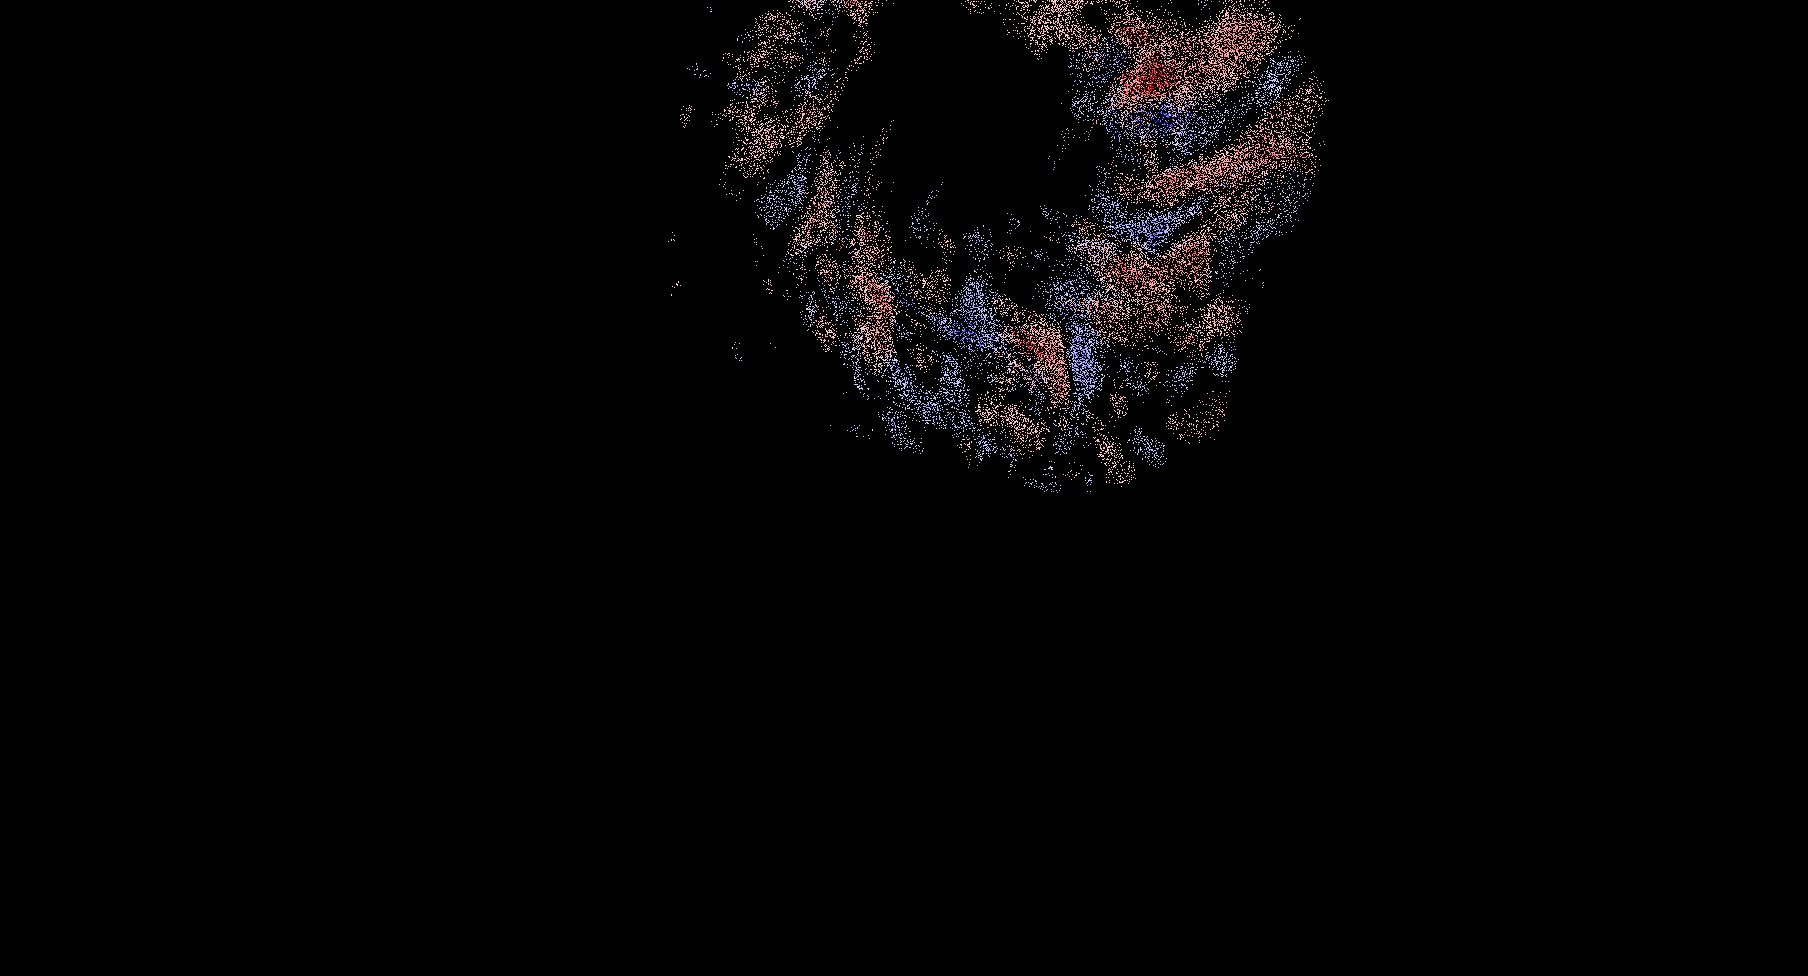
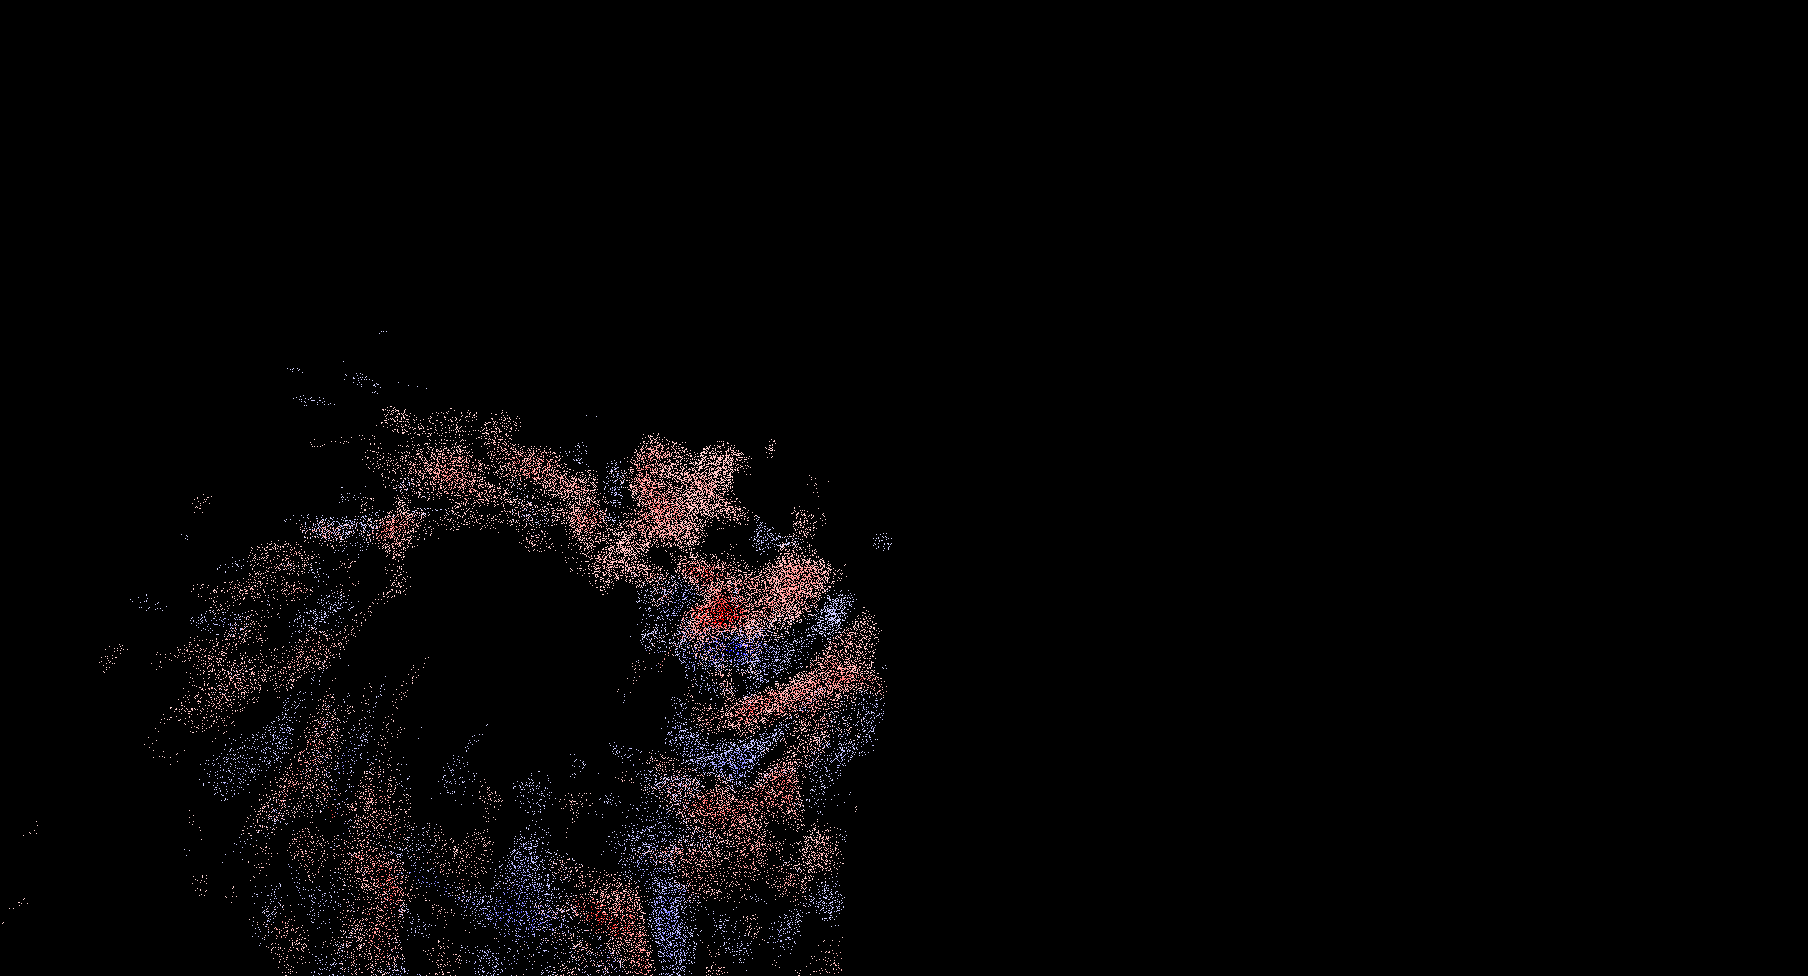
resolved rendering with alpha=1 setting

diff --git a/render_app/render_app.py b/render_app/render_app.py
@@ -30,7 +30,8 @@ import pdb
 def get_args():
     parser = argparse.ArgumentParser(description='')
     # parser.add_argument('--inpf', type=str, default="C:/UMD/render_pc/data/nasa/h_common.nc4", help='LAS/NC4 file path')
-    parser.add_argument('--inpf', type=str, default="C:/UMD/render_pc/data/nasa/h_common.las", help='LAS/NC4 file path')
+    parser.add_argument('--inpf', type=str, default="C:/UMD/render_pc/data/nasa/hurricane_hd.las", help='LAS/NC4 file path')
+    parser.add_argument('--viewf', type=str, default="C:/UMD/render_pc/data/nasa/hurricane/view_.txt", help='View matrices file path')
     
     parser.add_argument('--viewport', type=str, default='1820,980', help='width,height') # '3200,2000' for server screen
     parser.add_argument('--rmode', choices=['trackball', 'fly'], default='trackball')
@@ -109,16 +110,18 @@ class MyApp():
         #    [ 0.00000000e+00,  0.00000000e+00,  0.00000000e+00,
         #      1.00000000e+00]
         # ])
-        init_view = np.array([
-           [ 9.64632000e-01, -2.63601000e-01,  5.30000000e-05,
-        -9.10121620e+01],
-           [-2.60912000e-01, -9.54764000e-01,  1.42659000e-01,
-             8.94545460e+02],
-           [ 3.75550000e-02,  1.37627000e-01,  9.89772000e-01,
-            -1.46066213e+05],
-           [ 0.00000000e+00,  0.00000000e+00,  0.00000000e+00,
-             1.00000000e+00]
-        ])
+        # init_view = np.array([
+        #    [ 9.64632000e-01, -2.63601000e-01,  5.30000000e-05,
+        # -9.10121620e+01],
+        #    [-2.60912000e-01, -9.54764000e-01,  1.42659000e-01,
+        #      8.94545460e+02],
+        #    [ 3.75550000e-02,  1.37627000e-01,  9.89772000e-01,
+        #     -1.46066213e+05],
+        #    [ 0.00000000e+00,  0.00000000e+00,  0.00000000e+00,
+        #      1.00000000e+00]
+        # ])
+        vmats = np.loadtxt(args.viewf).reshape(-1, 4, 4)
+        init_view = vmats[2061]
 
         init_proj = np.array([
             [0.932642758, 0.0000000000000000, 0.0000000000000000, 0.0000000000000000],
@@ -142,7 +145,7 @@ class MyApp():
             import pycuda.gl.autoinit  # this may fails in headless mode
         except:
             raise RuntimeError('PyCUDA init failed, cannot use torch buffer')
-        _ = torch.rand((1, 3, 512,512), dtype=torch.float32, device='cuda') # needs init here, otherwise does not work
+        _ = torch.rand((1, 3, 512,512), dtype=torch.float64, device='cuda') # needs init here, otherwise does not work
 
         screen_tex, self.screen_tex_cuda = create_shared_texture(
             np.zeros((self.viewport_size[1], self.viewport_size[0],4), np.float32))
@@ -210,9 +213,10 @@ class MyApp():
         tview = view_matrix.T
         self.render_view['view'] = tview
         self.compute_loop.render(self.render_view)
-        # frame = self.compute_loop.getFrmTensor(self.render_view['framebuffer']).to(torch.float32)
-        frame = self.compute_loop.getFrmTensor(self.render_view['framebuffer']).to(torch.float64)
+        frame = self.compute_loop.getFrmTensor(self.render_view['framebuffer']).to(torch.float32)
         frame = frame.reshape(H, W, 4) / 255.0
+        frame[:,:,3] = 1.0
+        # pdb.set_trace()
         # frame = self.compute_loop.outFramePixels
 
         # if len(frame) > 0:
@@ -226,6 +230,7 @@ class MyApp():
     def save_screen(self, out_dir='./data/screenshots'):
         os.makedirs(out_dir, exist_ok=True)
         img = cv2.flip(self.last_frame[:,:,:3].detach().cpu().numpy(), 0)*255
+        img = img.astype(np.uint8)
         img = cv2.cvtColor(img, cv2.COLOR_RGB2BGR)
         cv2.imwrite(os.path.join(out_dir, str(self.n_save_frame) + '.png'), img)
         self.n_save_frame += 1
@@ -269,7 +274,6 @@ class MyApp():
         
         # Copy the frame to screen texture
         if len(self.last_frame) > 0:
-            # pdb.set_trace()
             cpy_tensor_to_texture(self.last_frame.detach().clone(), self.screen_tex_cuda)
 
         self.window.clear()
